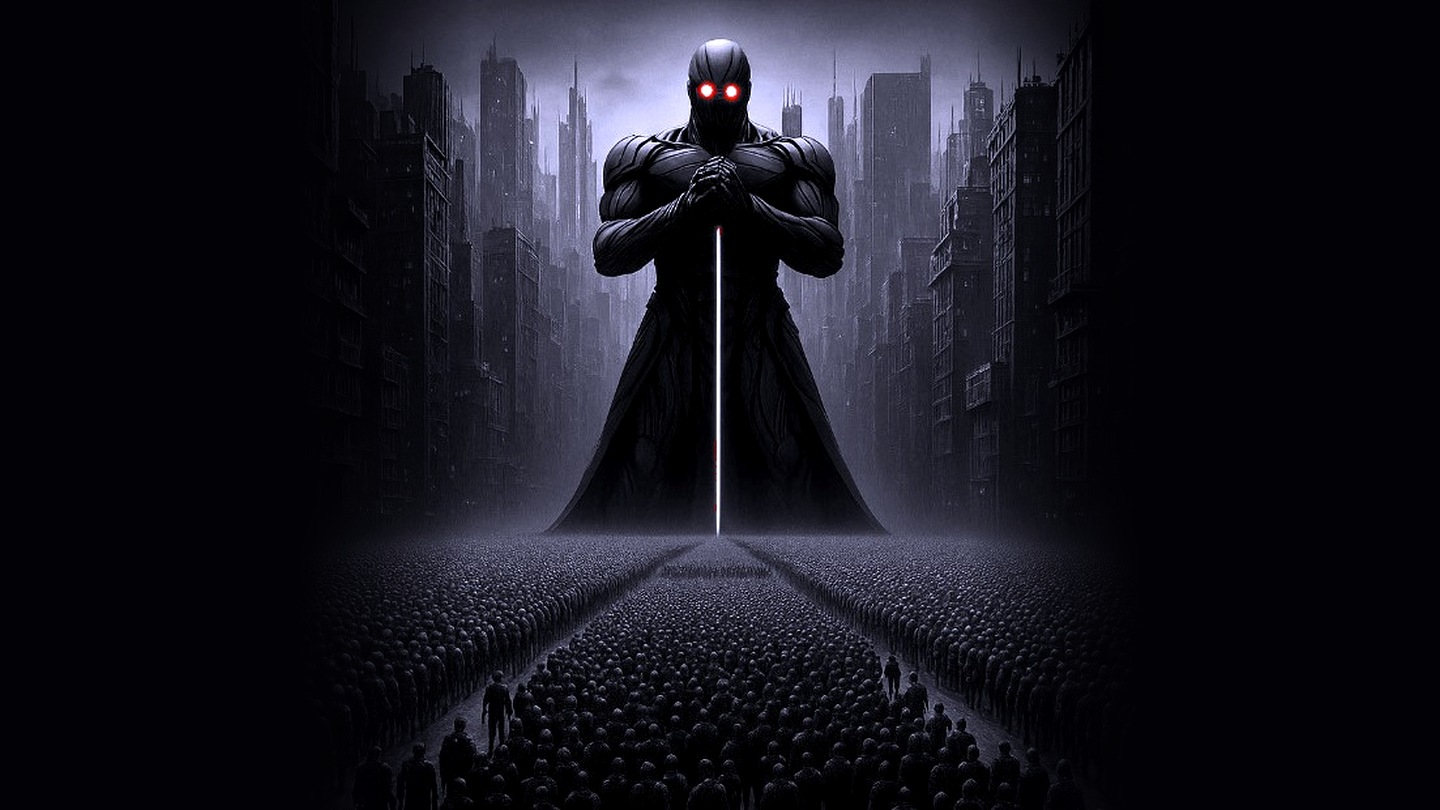
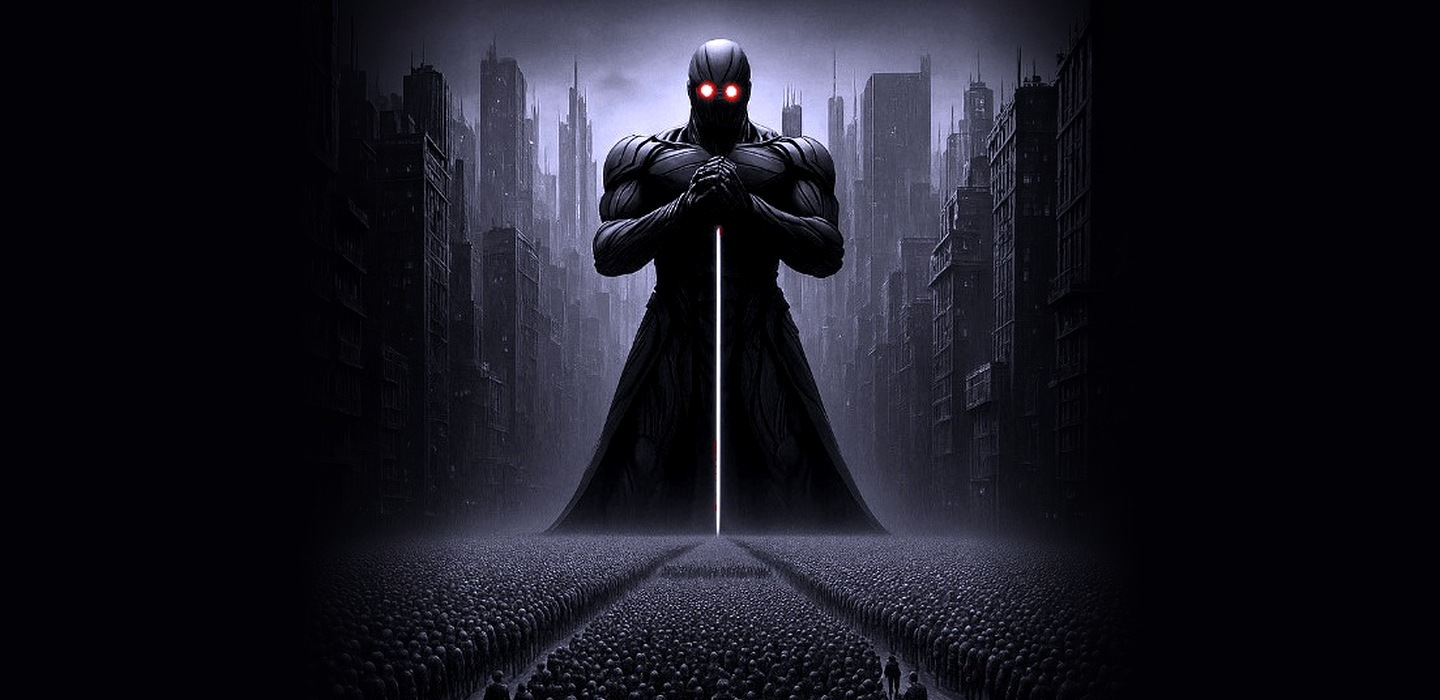
Hero : jambes raccourcies (1440×700) + background-position top
Crop bas de l'image à y=700 : supprime les jambes/bas de cape tout en
conservant la foule (visible dès y~570). Ratio 1440×700 force cover à
remplir par la hauteur → crâne visible en entier avec center top.

Changed region(s): [[0.25, 0.03, 0.75, 1.0], [0.2812, 0.06, 0.3125, 0.12]]

diff --git a/index.html b/index.html
@@ -19,7 +19,7 @@
       padding: 6rem 2rem 5rem;
       background-image: url('assets/img/leviathan.jpg');
       background-size: cover;
-      background-position: center 15%;
+      background-position: center top;
       background-repeat: no-repeat;
     }
 